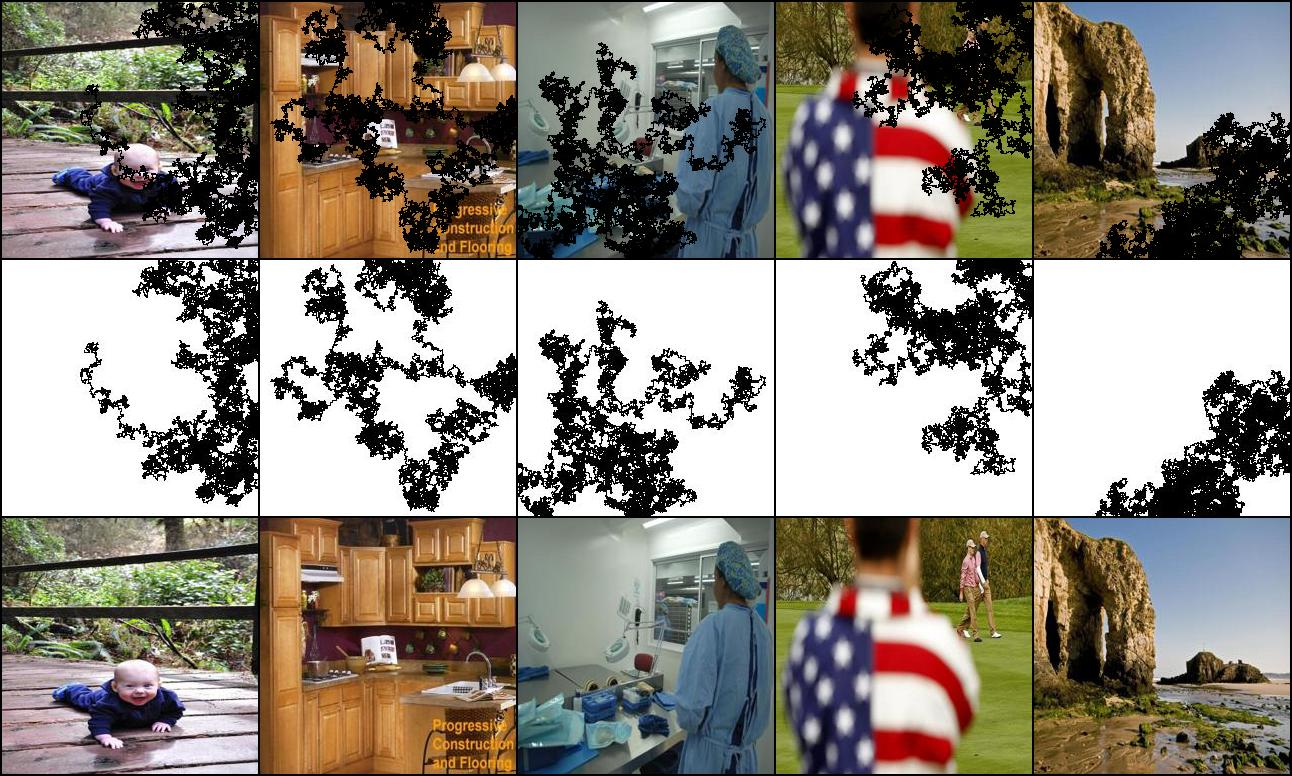
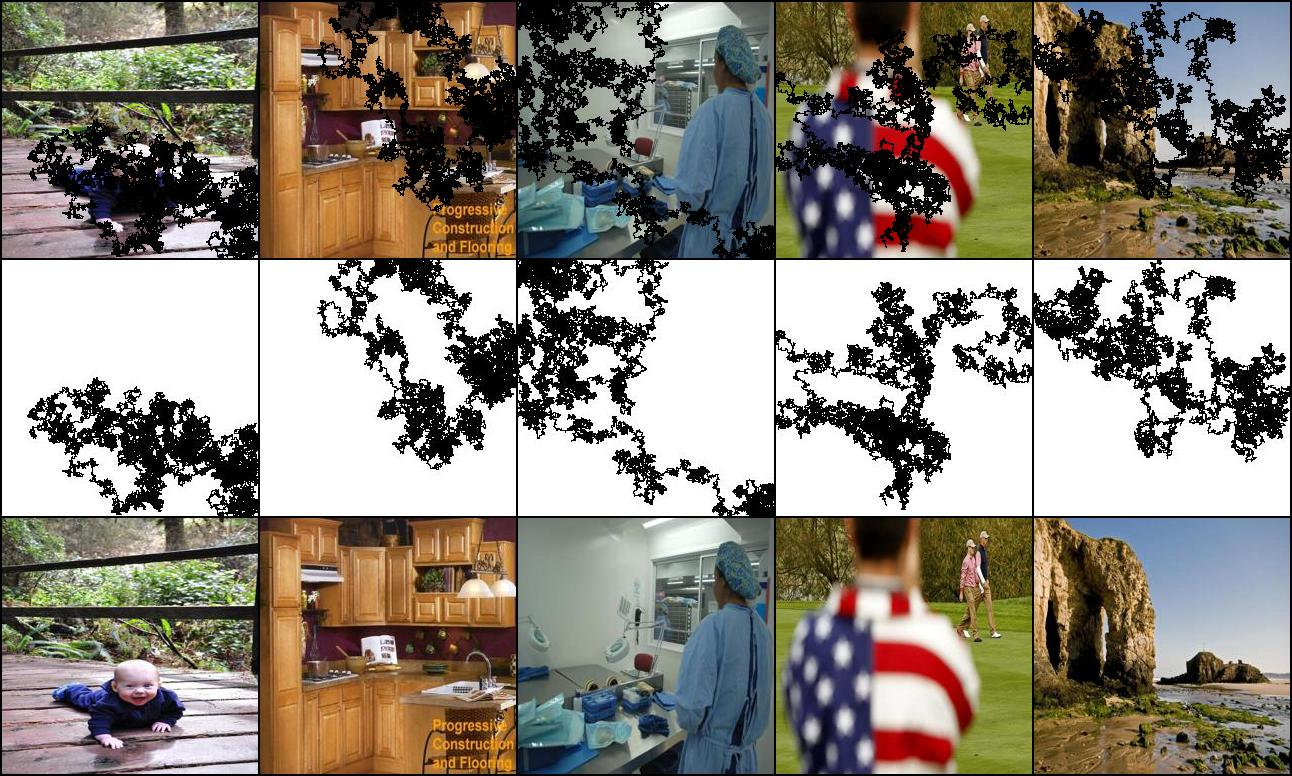
update

Changed region(s): [[0.0, 0.0, 1.0, 0.6804]]

diff --git a/dataset.py b/dataset.py
@@ -4,6 +4,7 @@ from torchvision import transforms
 import os
 import cv2
 import random
+from PIL import Image
 from torchvision.utils import make_grid
 from torchvision.utils import save_image
 
@@ -17,11 +18,12 @@ class ImgDataset(Dataset):
     img_dir: directory for original train/val images
     mask_dir: directory for masks
     """
-    def __init__(self, img_dir, mask_dir, transform=None):
+    def __init__(self, img_dir, mask_dir, transform_img, transform_msk):
         super().__init__()
         self.img_dir = img_dir
         self.mask_dir = mask_dir
-        self.transform = transform
+        self.transform_img = transform_img
+        self.transform_msk = transform_msk
 
         self.img_names = {i:name for i,name in enumerate(os.listdir(img_dir))}
         self.mask_names = {i:name for i,name in enumerate(os.listdir(mask_dir))}
@@ -40,9 +42,10 @@ class ImgDataset(Dataset):
         mask = cv2.imread(mask_path) 
         mask = cv2.cvtColor(mask, cv2.COLOR_BGR2RGB)
 
-        if(self.transform):
-            img = self.transform(img)
-            mask = self.transform(mask)
+        if(self.transform_img):
+            img = self.transform_img(img)
+        if(self.transform_msk):
+            mask = self.transform_msk(mask)
 
         # masked image, mask, groud truth image
         return img*mask, mask, img
@@ -50,12 +53,13 @@ class ImgDataset(Dataset):
 
 #### For testing
 if __name__ == '__main__':
-	imgDataset = util.build_dataset('./dataset/train','./dataset/masks')
-	print(len(imgDataset))
-	img, mask, gt = zip(*[imgDataset[i] for i in range(5)])
-	img = torch.stack(img, dim=0) # --> i x 3 x 256 x 256
-	mask = torch.stack(mask, dim=0)
-	gt = torch.stack(gt, dim=0)
+    imgDataset = util.build_dataset('./dataset/train','./dataset/masks')
+    print(len(imgDataset))
+    nrow = 5
+    img, mask, gt = zip(*[imgDataset[i] for i in range(nrow)])
+    img = torch.stack(img, dim=0) # shape: nrow x 3 x 256 x 256
+    mask = torch.stack(mask, dim=0)
+    gt = torch.stack(gt, dim=0)
 
-	grid = make_grid(torch.cat((util.unnormalize(img), mask, util.unnormalize(gt)), dim=0), nrow=5)
-	save_image(grid, "result/input_show.jpg")
+    grid = make_grid(torch.cat((util.unnormalize(gt)*mask, mask, util.unnormalize(gt)), dim=0), nrow=nrow)
+    save_image(grid, "result/input_show.jpg")

diff --git a/pconv.py b/pconv.py
@@ -6,7 +6,7 @@ from torchvision import models
 Partial Convolution Layer used in PConvUNet
 """
 class PConv2d(nn.Module):
-    def __init__(self, in_channels, out_channels, sample="none",
+    def __init__(self, in_channels, out_channels, bias=False, sample="none",
                                     has_bn=True, nonlinearity="relu") -> None:
         super().__init__()
 
@@ -30,27 +30,27 @@ class PConv2d(nn.Module):
         # different down-sampling cases
         if(sample == "down-7"):
             self.x_conv = nn.Conv2d(in_channels, out_channels,
-                     kernel_size=7, stride=2, padding=3, bias=True)
+                     kernel_size=7, stride=2, padding=3, bias=bias)
             self.m_conv = nn.Conv2d(in_channels, out_channels,
                      kernel_size=7, stride=2, padding=3, bias=False)
         elif(sample == "down-5"):
             self.x_conv = nn.Conv2d(in_channels, out_channels,
-                     kernel_size=5, stride=2, padding=2, bias=True)
+                     kernel_size=5, stride=2, padding=2, bias=bias)
             self.m_conv = nn.Conv2d(in_channels, out_channels,
                      kernel_size=5, stride=2, padding=2, bias=False)
         elif(sample == "down-3"):
             self.x_conv = nn.Conv2d(in_channels, out_channels,
-                     kernel_size=3, stride=2, padding=1, bias=True)
+                     kernel_size=3, stride=2, padding=1, bias=bias)
             self.m_conv = nn.Conv2d(in_channels, out_channels,
                      kernel_size=3, stride=2, padding=1, bias=False)
         else:  # no down-sample
             self.x_conv = nn.Conv2d(in_channels, out_channels,
-                     kernel_size=3, stride=1, padding=1, bias=True)
+                     kernel_size=3, stride=1, padding=1, bias=bias)
             self.m_conv = nn.Conv2d(in_channels, out_channels,
                      kernel_size=3, stride=1, padding=1, bias=False)
         
         # initialize kernel weight
-        nn.init.kaiming_normal_(self.x_conv.weight, mode='fan_out', nonlinearity='relu')
+        nn.init.kaiming_normal_(self.x_conv.weight, mode='fan_in', a=0)
         nn.init.constant_(self.m_conv.weight, 1.0)
 
         for param in self.m_conv.parameters():

diff --git a/util.py b/util.py
@@ -4,31 +4,43 @@ from torchvision import transforms
 from dataset import ImgDataset
 
 def build_dataset(img_dir, mask_dir, isTrain=True):
-    # train data augmentation
-    transforms_train = transforms.Compose([    
+    ## train data augmentation
+    transform_train_img = transforms.Compose([    
         transforms.ToTensor(),
         transforms.Resize(256),
+        transforms.Normalize(mean=[0.485, 0.456, 0.406],
+                             std=[0.229, 0.224, 0.225])
         # transforms.RandomHorizontalFlip(),
-        # transforms.Normalize(mean=[0.485, 0.456, 0.406],
-        #                      std=[0.229, 0.224, 0.225])
+        ])
+    transform_train_msk = transforms.Compose([    
+        transforms.ToTensor(),
+        transforms.Resize(256),
         ])
 
-    # test data augmentation
-    transforms_test = transforms.Compose([  
+    ## test data augmentation
+    transform_test_img = transforms.Compose([  
         transforms.ToTensor(),
         transforms.Resize(256),
-        # transforms.Normalize(mean=[0.485, 0.456, 0.406],
-        #                      std=[0.229, 0.224, 0.225])
+        transforms.Normalize(mean=[0.485, 0.456, 0.406],
+                             std=[0.229, 0.224, 0.225])
+        ])
+    transform_test_msk = transforms.Compose([  
+        transforms.ToTensor(),
+        transforms.Resize(256),
         ])
     
     if(isTrain):
-        imgDataset = ImgDataset(img_dir, mask_dir, transforms_train)
+        imgDataset = ImgDataset(img_dir, mask_dir, transform_train_img, transform_train_msk)
     else:
-        imgDataset = ImgDataset(img_dir, mask_dir, transforms_test)
+        imgDataset = ImgDataset(img_dir, mask_dir, transform_test_img, transform_test_msk)
 
     return imgDataset 
 
 
 def unnormalize(x):
-    # currently normalization is not applied
+    x = x.transpose(1, 3)
+    x = x * torch.Tensor([0.229, 0.224, 0.225]) + \
+            torch.Tensor([0.485, 0.456, 0.406])
+    x = x.transpose(1, 3)
+
     return x

diff --git a/test.py b/test.py
@@ -40,13 +40,15 @@ def show_visual_result(model, dataset, output_dir, n=6):
     img, mask, gt = zip(*[dataset[i] for i in range(n)])
     img = torch.stack(img, dim=0) # --> n x 3 x 256 x 256
     mask = torch.stack(mask, dim=0)
+    gt = torch.stack(gt, dim=0)
     with torch.no_grad():
         output = model(img, mask)
 
-    grid = make_grid(torch.cat((img, mask, output, gt), dim=0), nrow=n)
+    grid = make_grid(torch.cat((util.unnormalize(gt)*mask, mask, util.unnormalize(output), util.unnormalize(gt)), dim=0), nrow=n)
 
     if(not os.path.exists(output_dir)):
         os.makedirs(output_dir)
+
     save_image(grid, os.path.join(output_dir, "output_show.jpg"))
 
     print("Result successfully saved")
@@ -55,16 +57,15 @@ def show_visual_result(model, dataset, output_dir, n=6):
 if __name__ == "__main__":
     parser = argparse.ArgumentParser()
     parser.add_argument('--batch_size', type=int, default=16)
-    parser.add_argument('--img_path', type=str, default="./dataset/val")
-    parser.add_argument('--mask_path', type=str, default="./dataset/masks")
+    parser.add_argument('--img_dir', type=str, default="./dataset/val")
+    parser.add_argument('--mask_dir', type=str, default="./dataset/masks")
     parser.add_argument('--model_path', type=str, default="./trained_model.pth")
     parser.add_argument('--out_dir', type=str, default="./result")
     args = parser.parse_args()
 
     model = PConvUNet()
     model.load_state_dict(torch.load(args.model_path))
-    testDataset = util.build_dataset(args.img_path, args.mask_path, isTrain=False)
+    testDataset = util.build_dataset(args.img_dir, args.mask_dir, isTrain=False)
 
     # evaluate(model, testDataset, args)
     show_visual_result(model, testDataset, args.out_dir)
-    

diff --git a/net.py b/net.py
@@ -13,6 +13,7 @@ class PConvUNet(nn.Module):
         # should be fixed to 7, the same for decoder stage
 
         ######################## Encoder (pconv_1 - pconv_7) ############################
+        
         # 3x256x256->64x128x128
         self.pconv_1 = PConv2d(3, 64, has_bn=False, sample="down-7")
 
@@ -31,6 +32,7 @@ class PConvUNet(nn.Module):
         self.pconv_7 = PConv2d(512, 512, sample="down-3")
 
         ####################### Decoder (pconv_8 - pconv_14) ############################
+
         # 512x4x4(upsample output) + 512x4x4(pconv_6 output) = 1024x4x4->512x4x4
         self.pconv_8 = PConv2d(512+512, 512, nonlinearity="leaky")
 
@@ -50,11 +52,12 @@ class PConvUNet(nn.Module):
         self.pconv_13 = PConv2d(128+64, 64, nonlinearity="leaky")
 
 		# 64x256x256(upsample output) + 3x256x256(original image) = 67x256x256->3x256x256
-        self.pconv_14 = PConv2d(64+3, 3, has_bn=False, nonlinearity="")
+        self.pconv_14 = PConv2d(64+3, 3, bias=True, has_bn=False, nonlinearity="")
     
 
     def forward(self, x, m):
         ######################## Encoder (pconv_1 - pconv_7) ############################
+
         original_x, original_m = x, m
         out1_x, out1_m = self.pconv_1(x, m)
         out2_x, out2_m = self.pconv_2(out1_x, out1_m)
@@ -65,7 +68,8 @@ class PConvUNet(nn.Module):
         out7_x, out7_m = self.pconv_7(out6_x, out6_m)
 
         ####################### Decoder (pconv_8 - pconv_14) ############################
-        x = F.interpolate(out7_x, scale_factor=2)
+
+        x = F.interpolate(out7_x, scale_factor=2) # default upsampling mode: nearest
         m = F.interpolate(out7_m, scale_factor=2)
         x = torch.cat([x, out6_x], dim=1)
         m = torch.cat([m, out6_m], dim=1)

diff --git a/train.py b/train.py
@@ -13,8 +13,8 @@ import util
 
 
 def train(model, args):
-    trainDataset = util.build_dataset(args.img_path, args.mask_path, isTrain=True)
-    train_loader = DataLoader(trainDataset, batch_size=args.bath_size, shuffle=False)
+    trainDataset = util.build_dataset(args.img_dir, args.mask_dir, isTrain=True)
+    train_loader = DataLoader(trainDataset, batch_size=args.batch_size, shuffle=False)
 
     criterion = LossFunc()
     optimizer = optim.Adam(filter(lambda x:x.requires_grad, model.parameters()), lr=args.init_lr)
@@ -65,8 +65,8 @@ if __name__ == "__main__":
     parser.add_argument('--init_lr', type=float, default=2e-4)
     parser.add_argument('--batch_size', type=int, default=16)
     parser.add_argument('--epochs', type=int, default=1)
-    parser.add_argument('--img_path', type=str, default="./dataset/train")
-    parser.add_argument('--mask_path', type=str, default="./dataset/masks")
+    parser.add_argument('--img_dir', type=str, default="./dataset/train")
+    parser.add_argument('--mask_dir', type=str, default="./dataset/masks")
     parser.add_argument('--out_path', type=str, default="./trained_model.pth")
     args = parser.parse_args()
 

diff --git a/loss.py b/loss.py
@@ -10,9 +10,9 @@ def gram_matrix(feature_matrix):
 
 	# (batch, channel, h*w) x (batch, h*w, channel) -> (batch, channel, channel)
     # then multiply K_p=1/(channel*h*w), which is the normalization factor
-	gram_matrix = torch.bmm(feature_matrix, feature_matrix_t) / (channel*h*w)
+	gram_mat = torch.bmm(feature_matrix, feature_matrix_t) / (channel*h*w)
 
-	return gram_matrix
+	return gram_mat
 
 """
 project images into higher level feature spaces using part of 

diff --git a/README.md b/README.md
@@ -11,3 +11,11 @@ Download dataset and organize the dataset folder as follows:
 
 Run `python generate_mask.py` to generate 5000 masks of 256*256 size by default.
 
+## Train
+
+Run `python train.py` (with default parameters)
+
+## Test
+
+Run `python test.py` (with default parameters)
+
